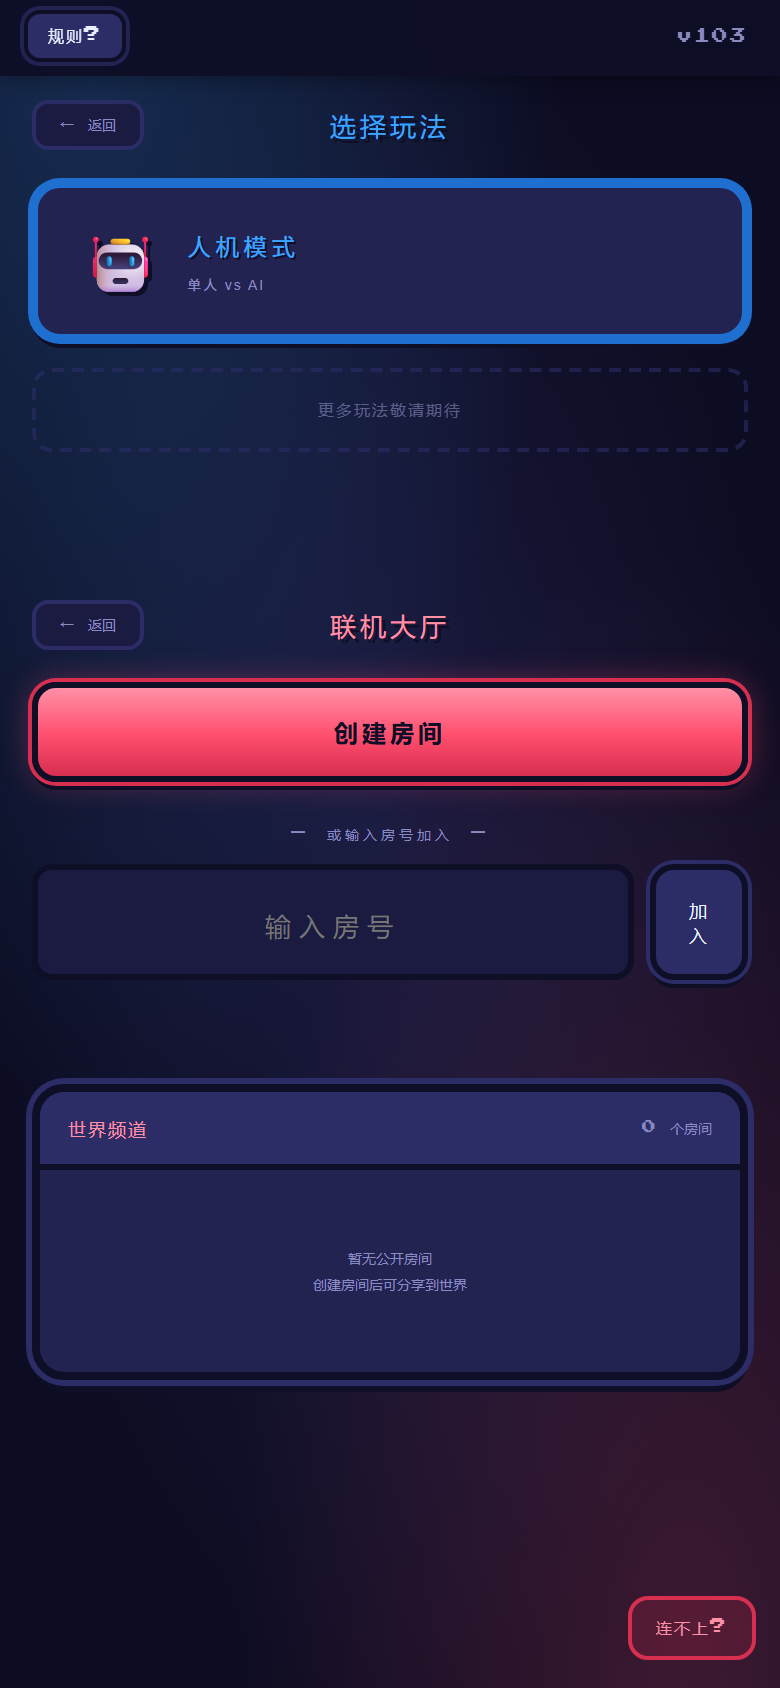
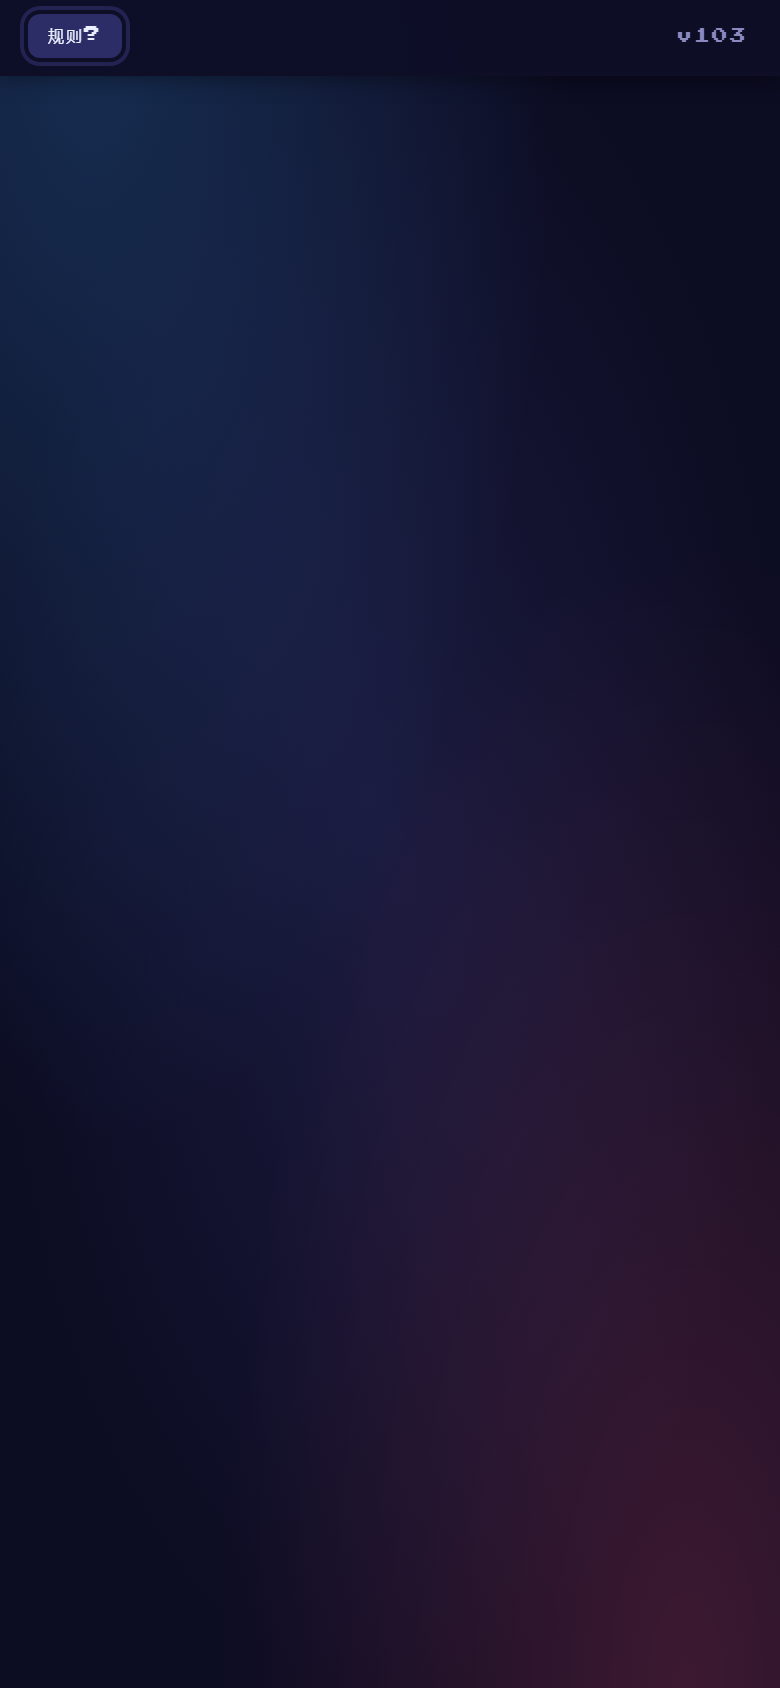
v103 fix: modeSelect/btnModeBack/btnModeAI 声明挪到顶部 DOM 区, 修复 TDZ 错误

diff --git a/js/main.js b/js/main.js
@@ -47,6 +47,11 @@
   const btnRoomCancel = document.getElementById('btnRoomCancel');
   const roomLobbyStatus = document.getElementById('roomLobbyStatus');
 
+  // ===== DOM: 玩法选择屏(早期声明, 避免下方启动时分派 showLobby/showAuthScreen 触发 TDZ) =====
+  const modeSelect = document.getElementById('modeSelect');
+  const btnModeBack = document.getElementById('btnModeBack');
+  const btnModeAI = document.getElementById('btnModeAI');
+
   // ===== DOM: 游戏区 =====
   const gameWrap = document.getElementById('gameWrap');
   const elHpP1 = document.getElementById('hpP1');
@@ -544,11 +549,6 @@
   // 移动端独立退出按钮(复用 onExit 逻辑, 弹确认对话框并暂停游戏)
   const exitMobileBtn = document.getElementById('exitMobileBtn');
   if (exitMobileBtn) exitMobileBtn.addEventListener('click', onExit);
-
-  // ===== DOM: 玩法选择屏 =====
-  const modeSelect = document.getElementById('modeSelect');
-  const btnModeBack = document.getElementById('btnModeBack');
-  const btnModeAI = document.getElementById('btnModeAI');
 
   // ===== 大厅按钮 =====
   // 副本入口 → 改为进入「选择玩法」屏, 由屏内按钮再决定具体模式
